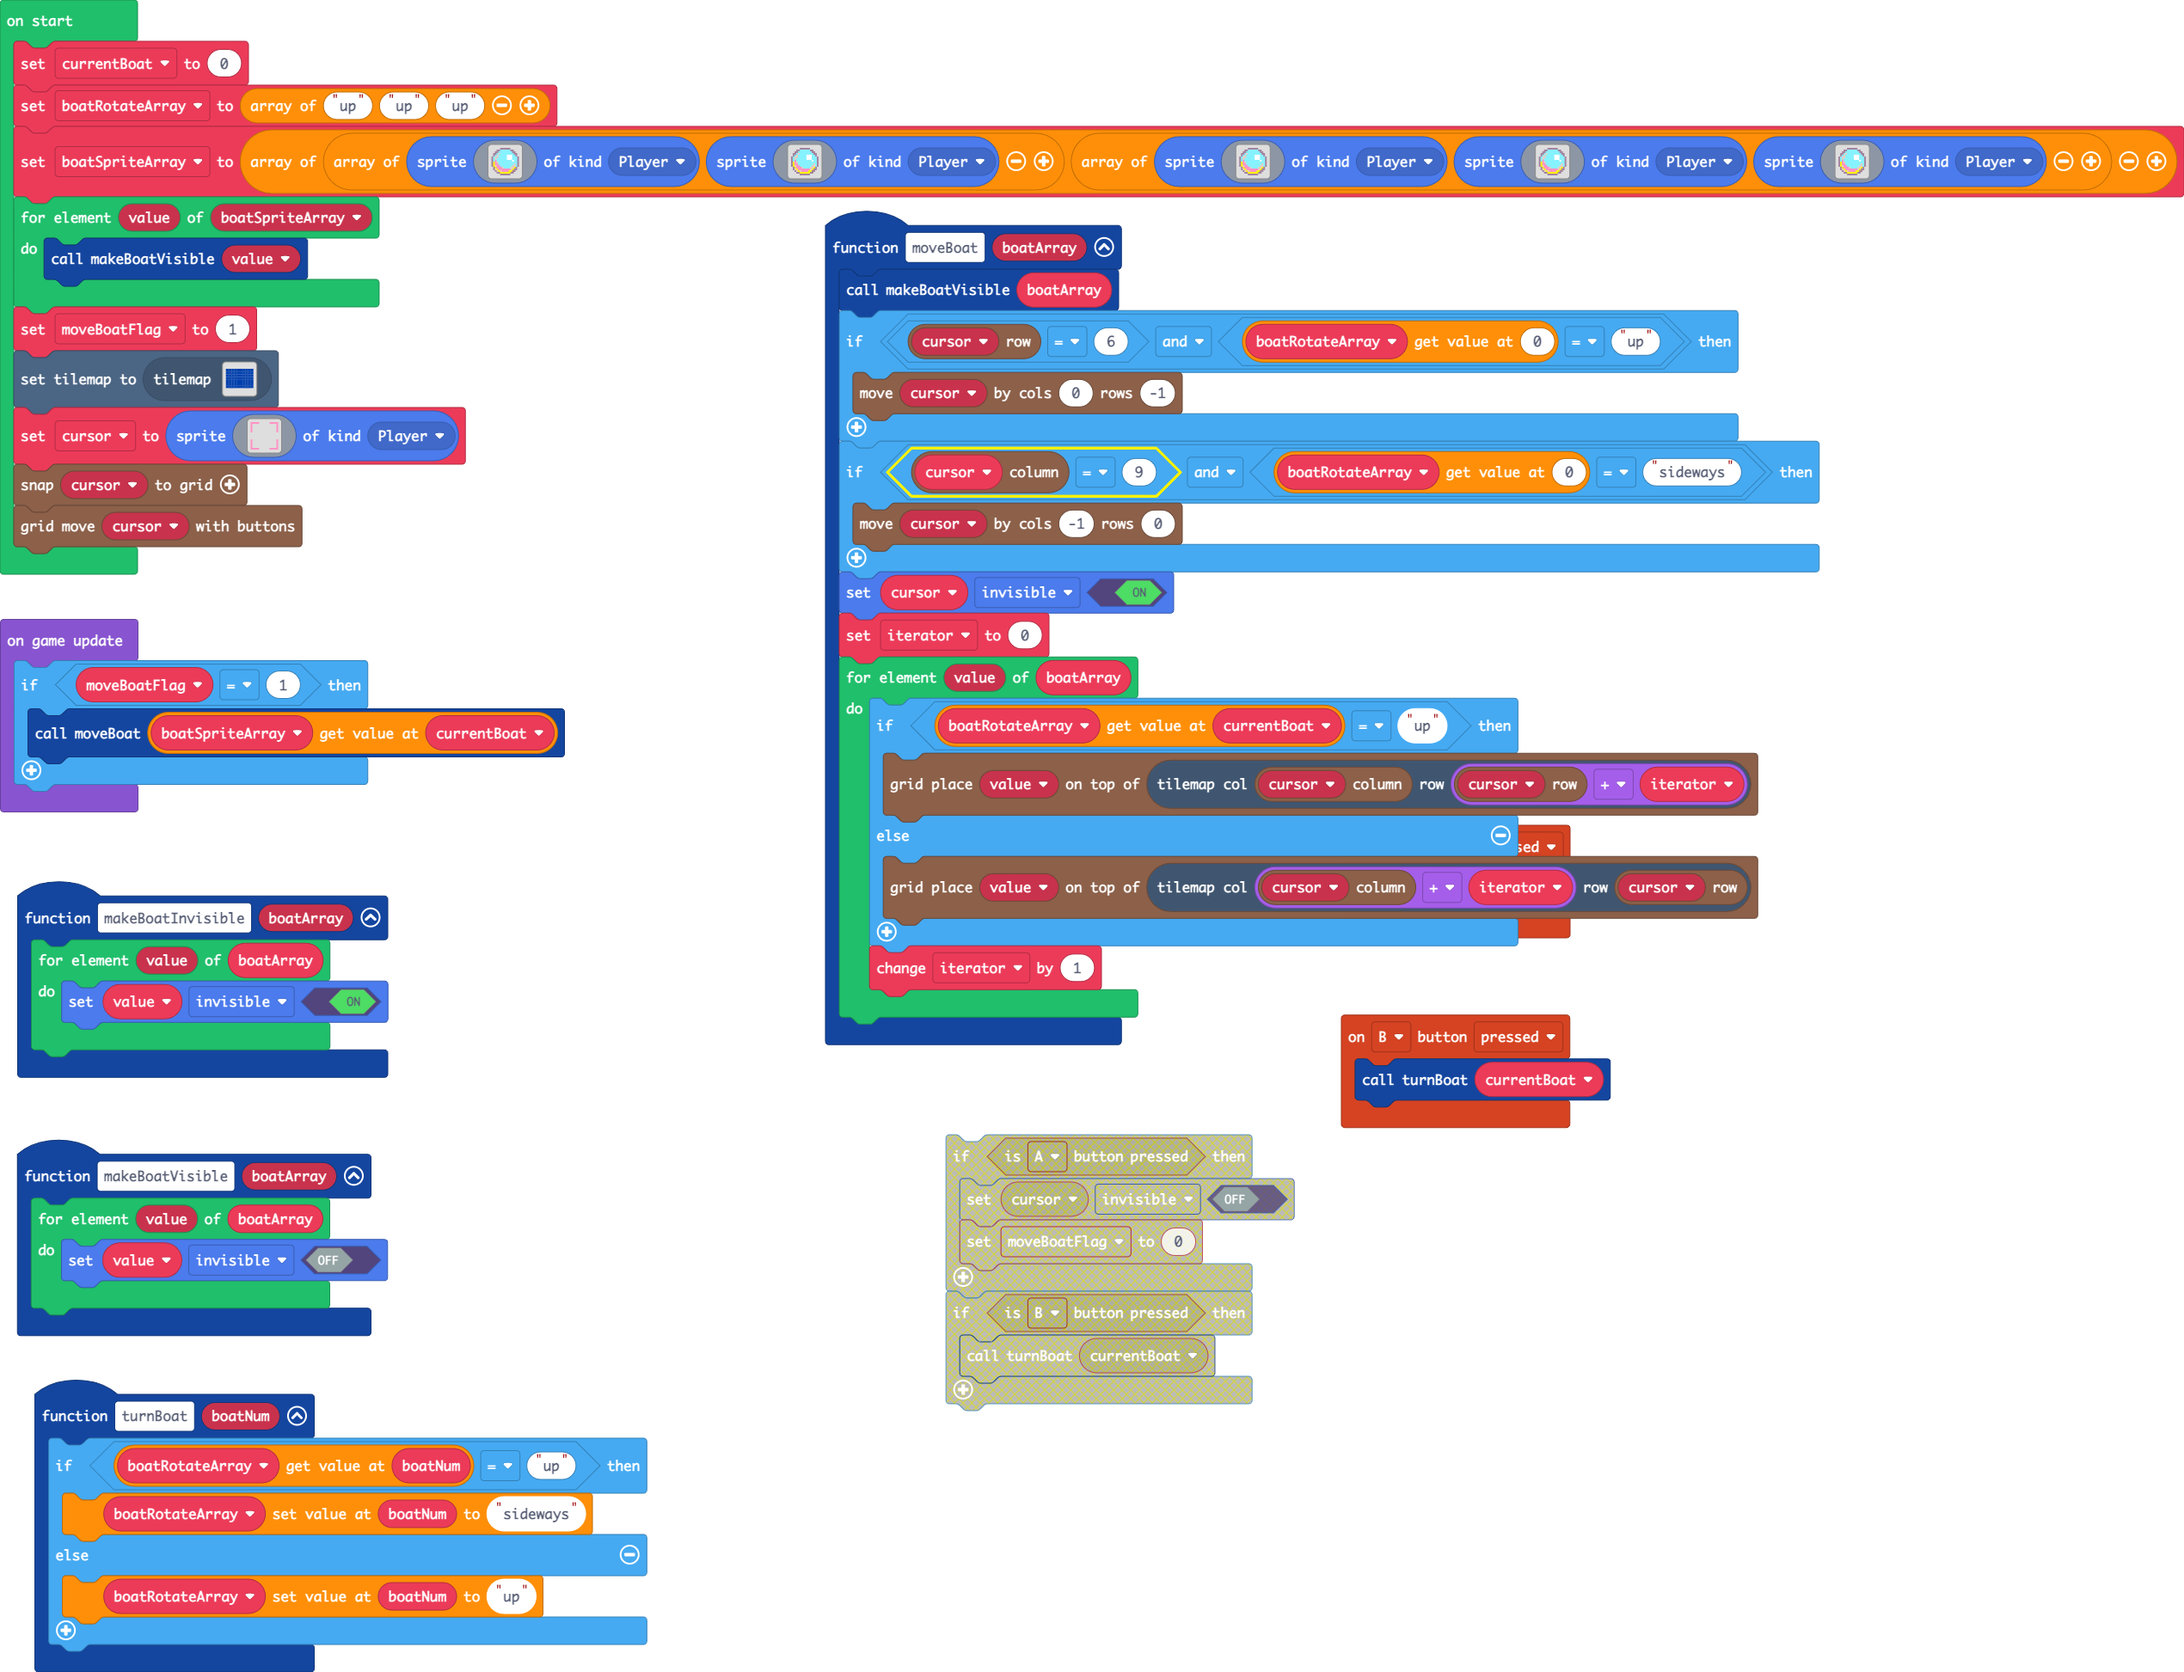
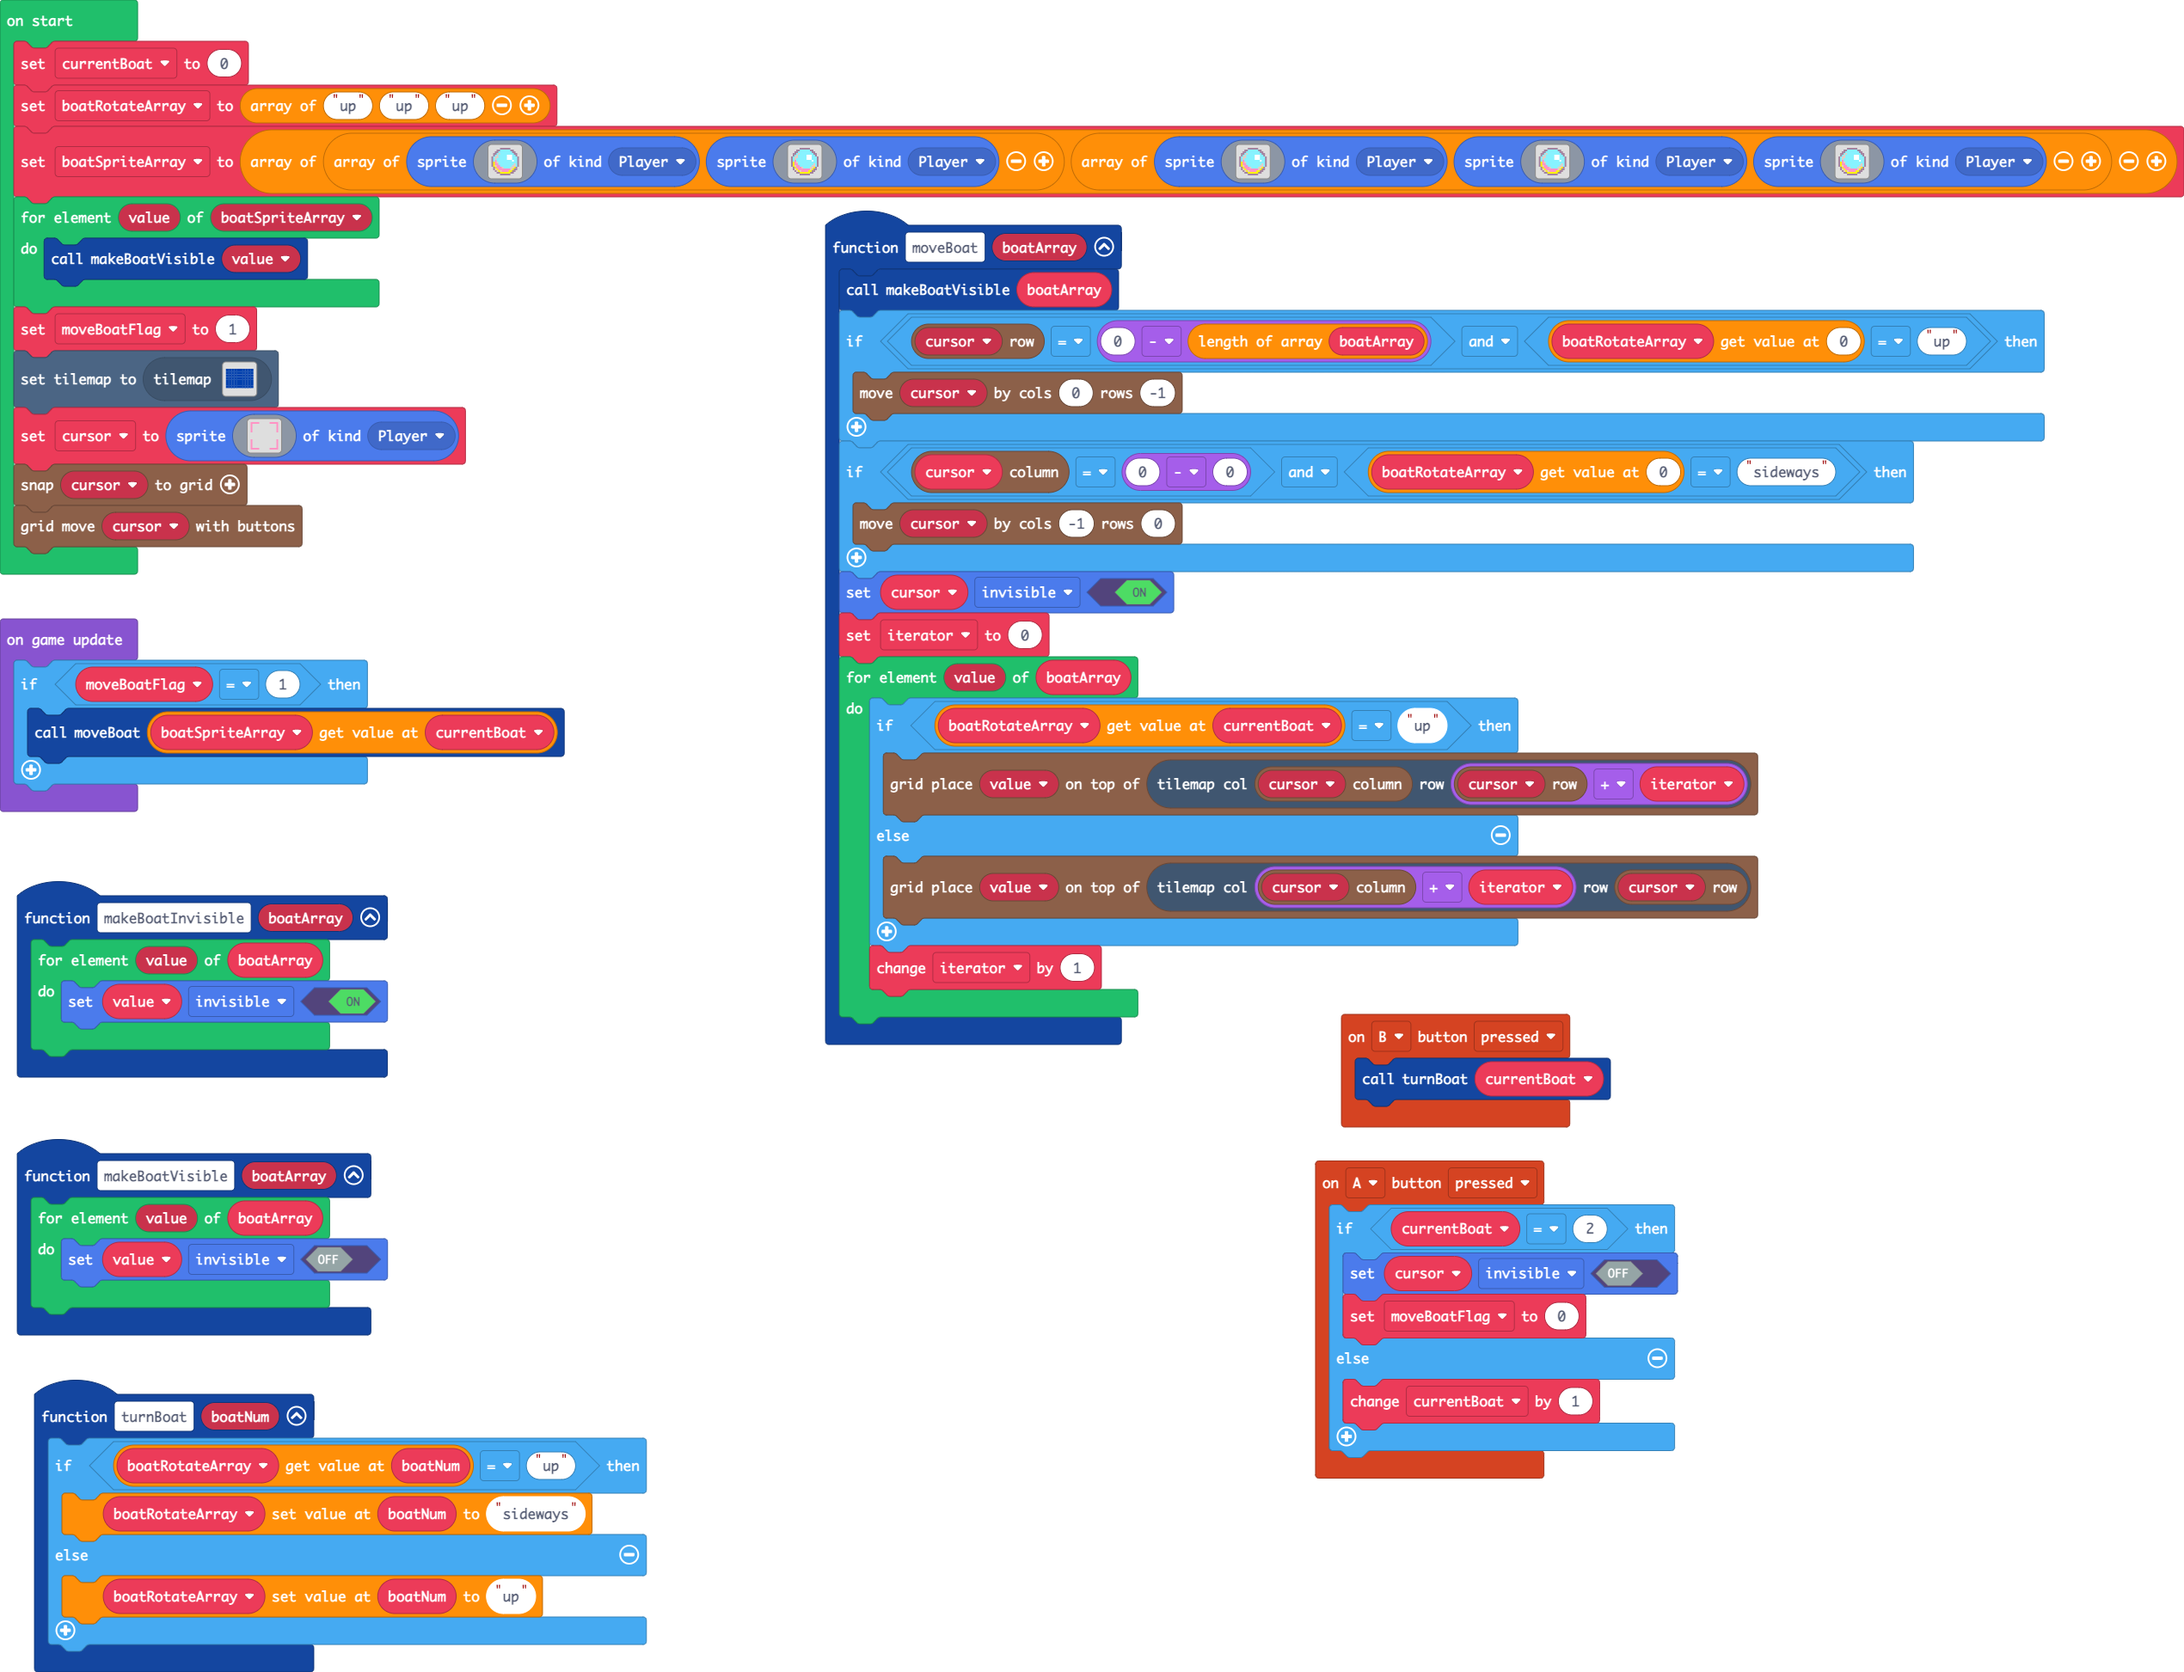
we can move boat 1

diff --git a/main.ts b/main.ts
@@ -7,14 +7,19 @@ function makeBoatVisible (boatArray: Sprite[]) {
     }
 }
 controller.A.onEvent(ControllerButtonEvent.Pressed, function () {
-    cursor.setFlag(SpriteFlag.Invisible, false)
+    if (currentBoat == 2) {
+        cursor.setFlag(SpriteFlag.Invisible, false)
+        moveBoatFlag = 0
+    } else {
+        currentBoat += 1
+    }
 })
 function moveBoat (boatArray: any[]) {
     makeBoatVisible(boatArray)
-    if (grid.spriteRow(cursor) == 6 && boatRotateArray[0] == "up") {
+    if (grid.spriteRow(cursor) == 0 - boatArray.length && boatRotateArray[0] == "up") {
         grid.move(cursor, 0, -1)
     }
-    if (grid.spriteCol(cursor) == 9 && boatRotateArray[0] == "sideways") {
+    if (grid.spriteCol(cursor) == 0 - 0 && boatRotateArray[0] == "sideways") {
         grid.move(cursor, -1, 0)
     }
     cursor.setFlag(SpriteFlag.Invisible, true)
@@ -42,6 +47,7 @@ function turnBoat (boatNum: number) {
 }
 let iterator = 0
 let cursor: Sprite = null
+let moveBoatFlag = 0
 let boatRotateArray: string[] = []
 let currentBoat = 0
 currentBoat = 0
@@ -135,7 +141,7 @@ let boatSpriteArray = [[sprites.create(img`
 for (let value of boatSpriteArray) {
     makeBoatVisible(value)
 }
-let moveBoatFlag = 1
+moveBoatFlag = 1
 tiles.setCurrentTilemap(tilemap`level2`)
 cursor = sprites.create(img`
     3 3 3 3 3 . . . . . . 3 3 3 3 3 
